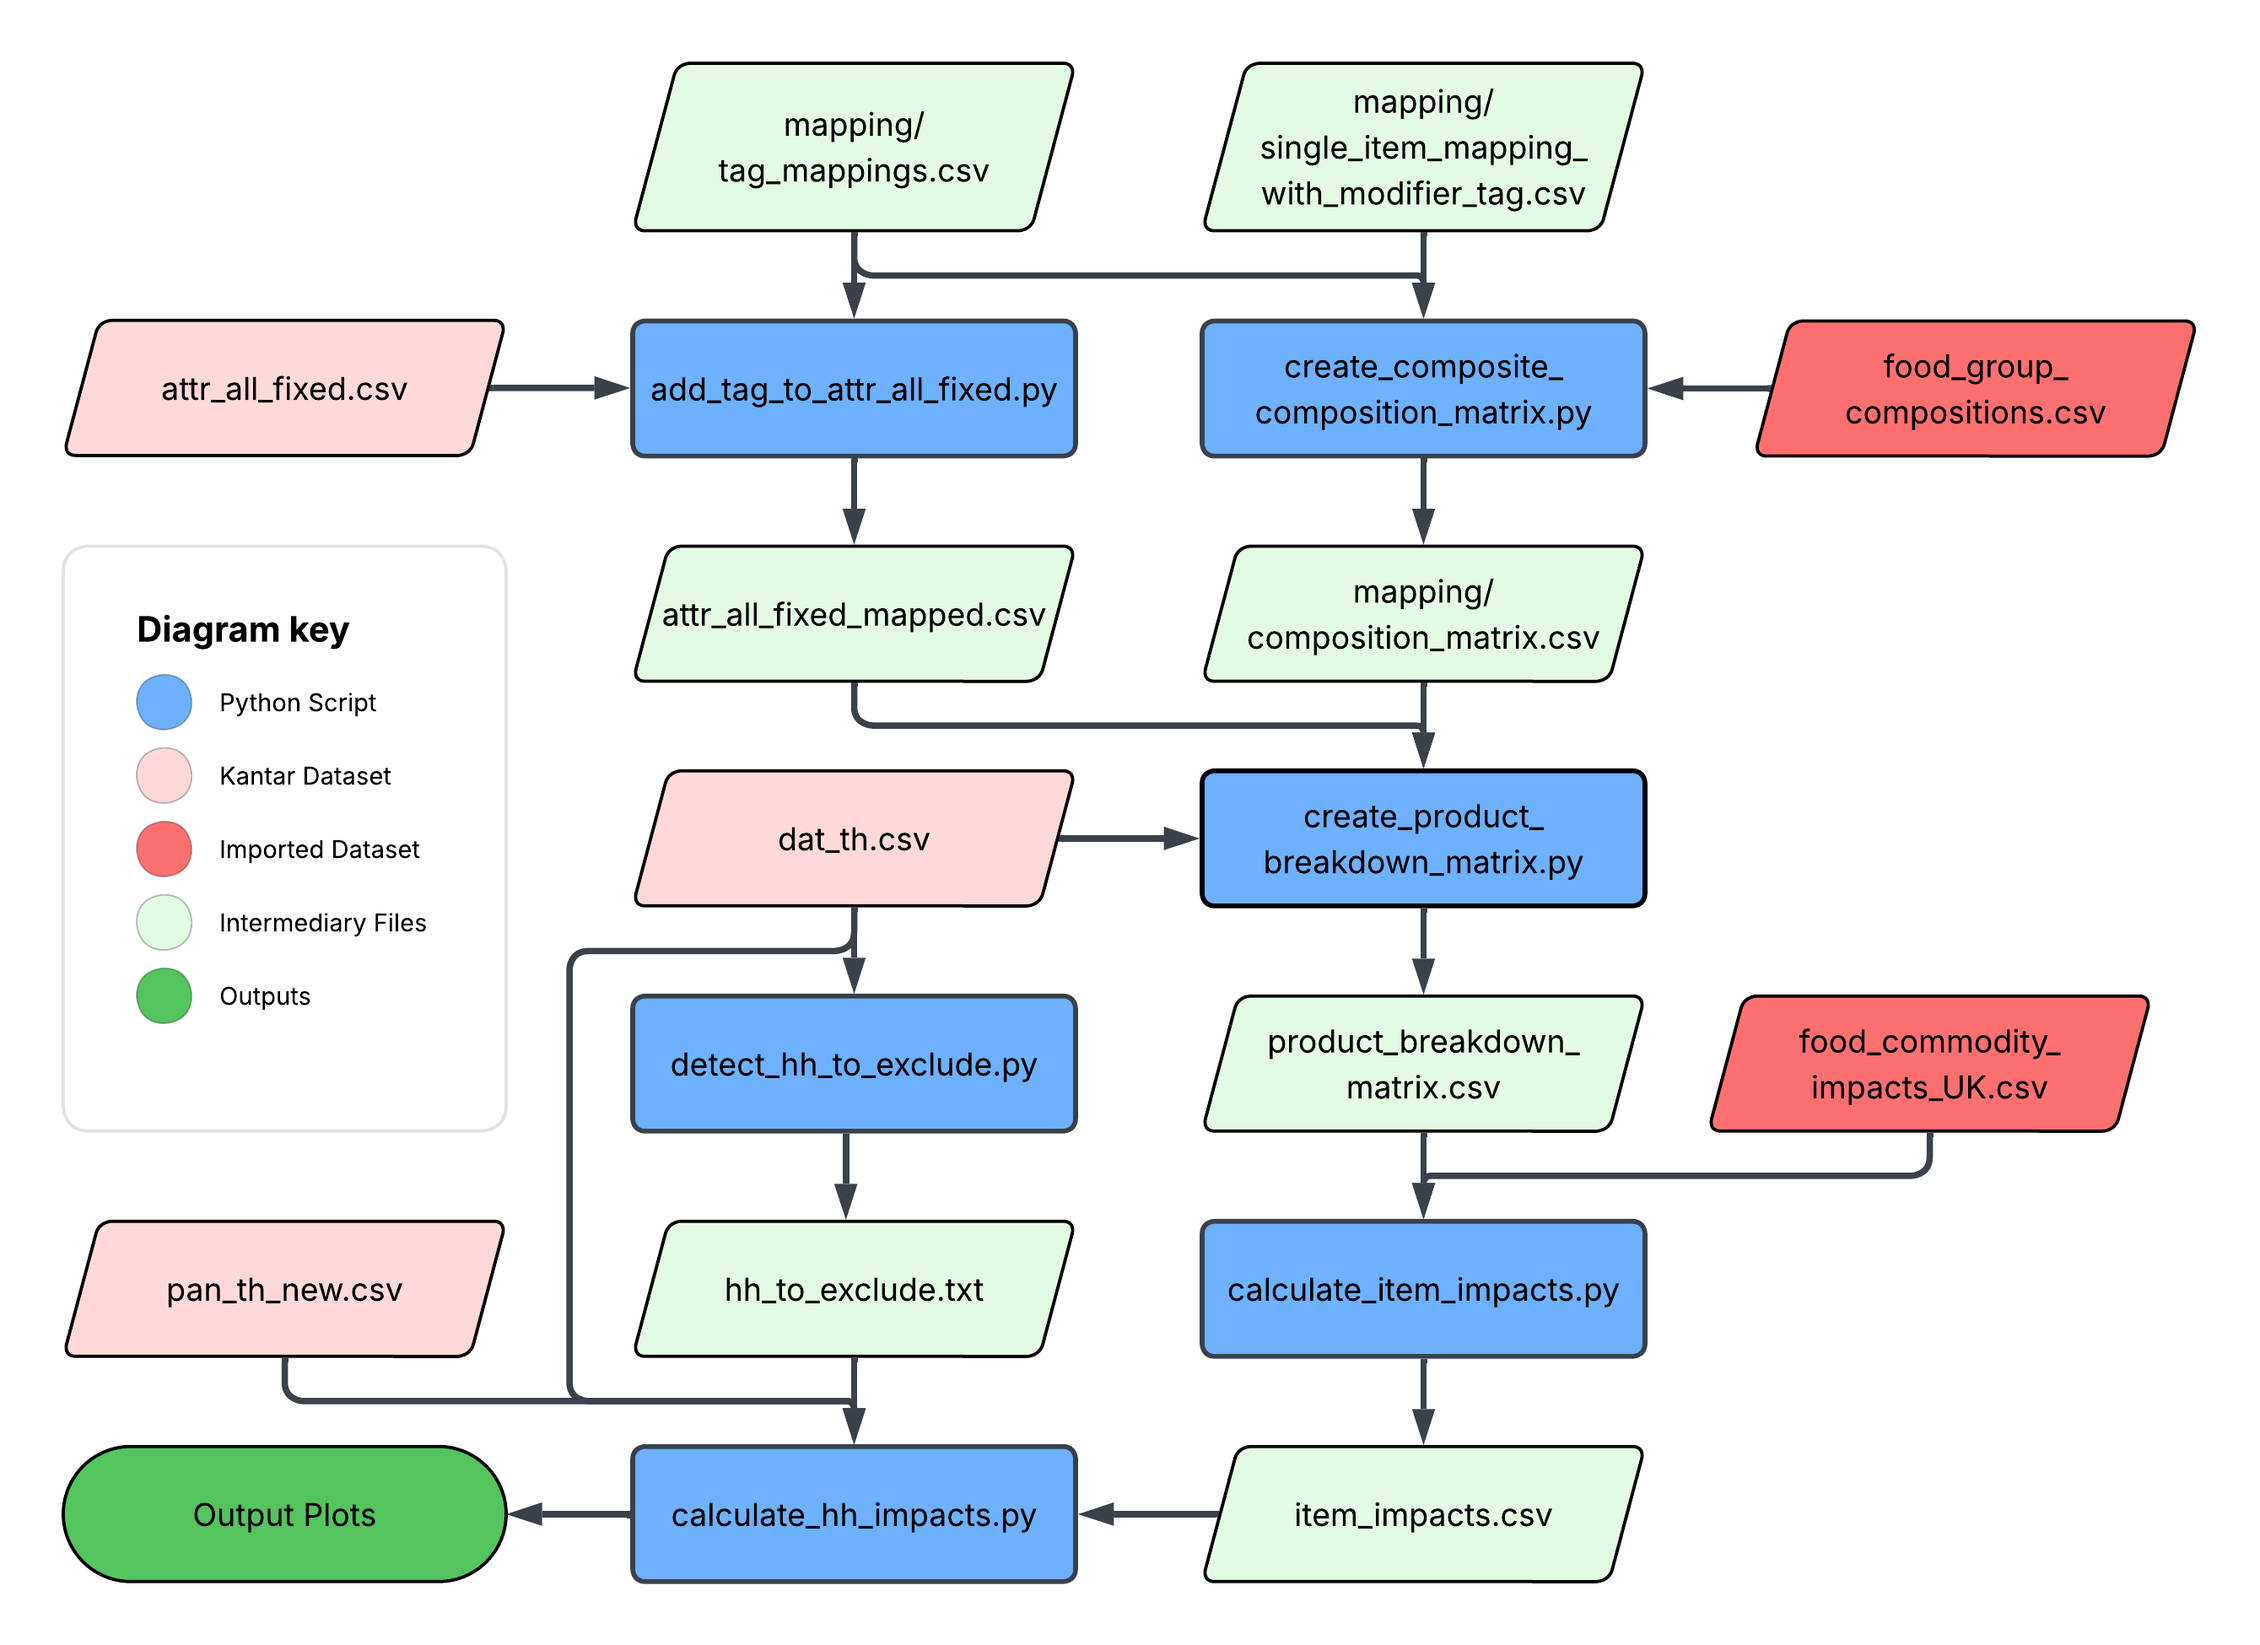
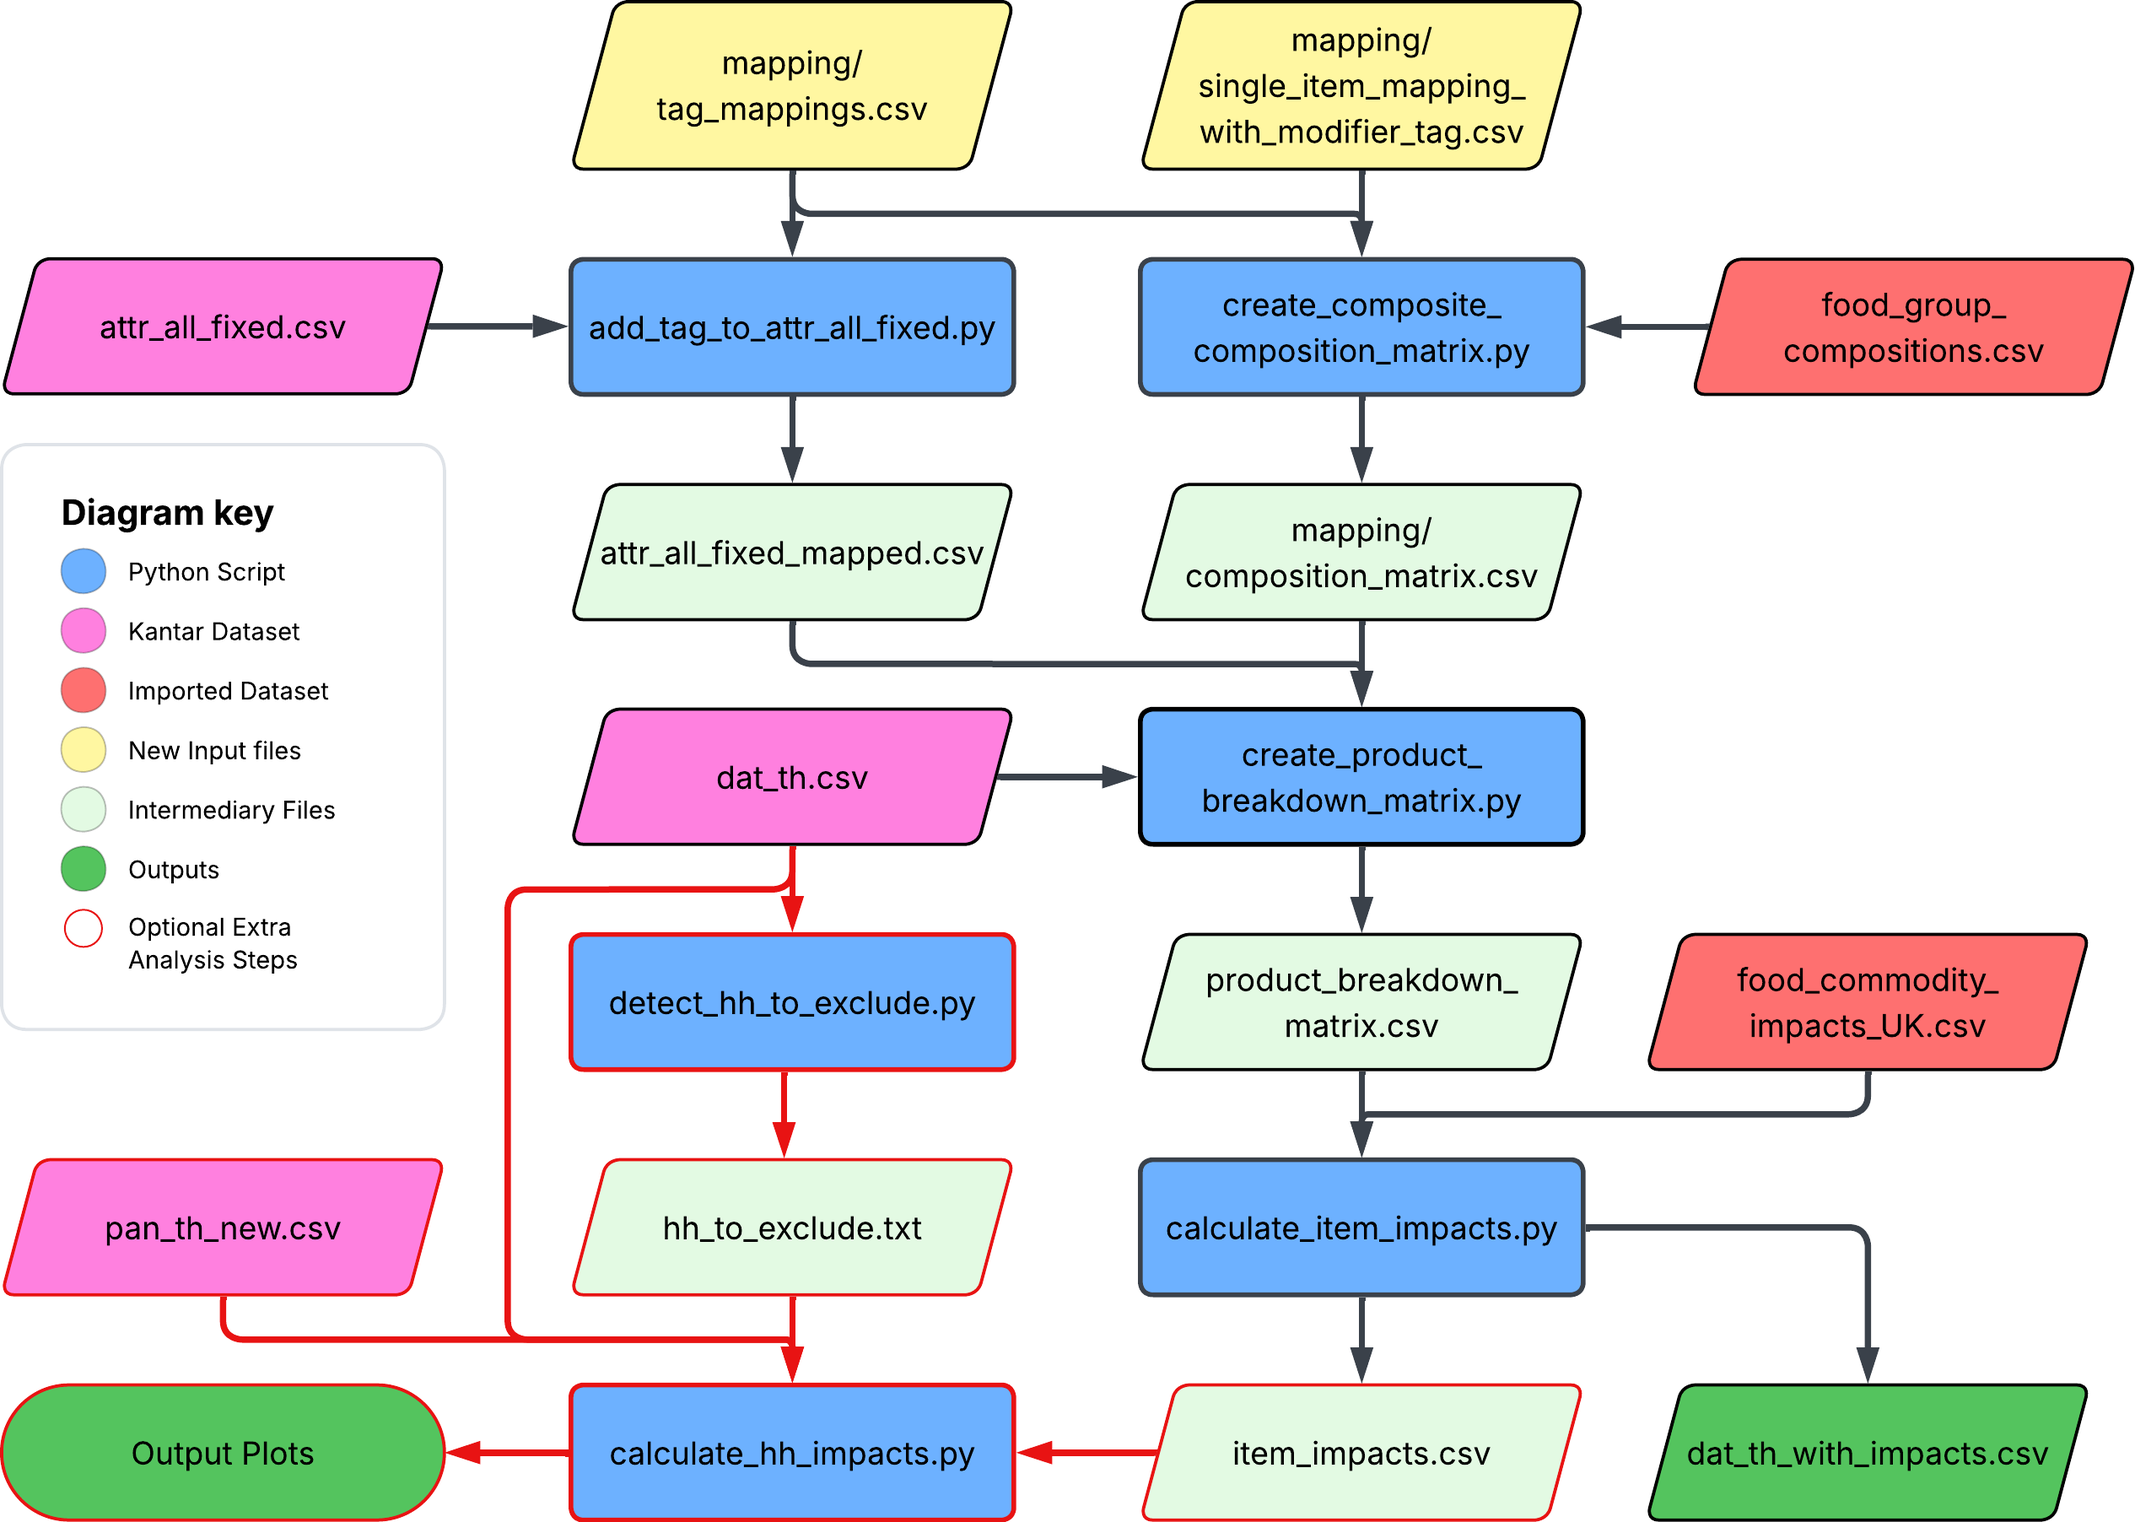
commenting

diff --git a/create_composite_composition_matrix.py b/create_composite_composition_matrix.py
@@ -1,47 +1,53 @@
 import pandas as pd
 import numpy as np
+from numpy import ndarray
+from pandas import DataFrame, Series
 
 
-single_item_mapping = pd.read_csv('data/mappings/single_item_mapping_with_modifier_tag.csv')
-single_item_dict = dict(zip(single_item_mapping['Food_Category_sub_sub'], single_item_mapping['Food Commodity']))
+# use single item mapping to relate Tom and Mikes slightly different food categories to the same single item tag
+single_item_mapping: DataFrame = pd.read_csv('data/mappings/single_item_mapping_with_modifier_tag.csv')
+single_item_dict: dict = dict(zip(single_item_mapping['Food_Category_sub_sub'], single_item_mapping['Food Commodity']))
 
 
-food_composition_df = pd.read_csv('data/food_group_compositions.csv')
+food_composition_df: DataFrame = pd.read_csv('data/food_group_compositions.csv')
 food_composition_df["Food_Category_sub"] = food_composition_df["Food_Category_sub"].fillna(food_composition_df["Food_Category"])
 food_composition_df["Food_Category_sub_sub"] = food_composition_df["Food_Category_sub_sub"].fillna(food_composition_df["Food_Category_sub"])
-food_composition_df = food_composition_df.drop(columns=["Food_Category", "Food_Category_sub"])
+food_composition_df: DataFrame = food_composition_df.drop(columns=["Food_Category", "Food_Category_sub"])
 
 food_composition_df["Tag"] = food_composition_df["Food_Category_sub_sub"].map(single_item_dict)
 
-unique_single_tags_from_composites = food_composition_df["Tag"].unique()
+
+# collect all the unique rst market from both composite and single item tags
+unique_single_tags_from_composites: ndarray|list = food_composition_df["Tag"].unique()
 unique_single_tags_from_composites = [str(tag) for tag in unique_single_tags_from_composites]
 
-rst_mapping_df = pd.read_csv('data/mappings/tag_mapping.csv')
-unique_tags_from_rst = rst_mapping_df["mapped_tag"].unique().tolist()
-unique_single_tags_from_rst = [tag[1:] for tag in unique_tags_from_rst if type(tag) == str and tag[0] == "*"]
+rst_mapping_df: DataFrame = pd.read_csv('data/mappings/tag_mapping.csv')
+unique_tags_from_rst: list = rst_mapping_df["mapped_tag"].unique().tolist()
+unique_single_tags_from_rst: list = [tag[1:] for tag in unique_tags_from_rst if type(tag) == str and tag[0] == "*"]
 
-unique_single_tags = sorted(list(set(unique_single_tags_from_composites).union(set(unique_single_tags_from_rst))))
-
-
-
-unique_items = food_composition_df["validation_field_title"].unique()
-single_item_array = pd.DataFrame(0, index=unique_items, columns=unique_single_tags)
-single_item_matrix = single_item_array.to_numpy(dtype=float)
-index_map = {item: idx for idx, item in enumerate(unique_items)}
-column_map = {tag: idx for idx, tag in enumerate(unique_single_tags)}
+unique_single_tags: list = sorted(list(set(unique_single_tags_from_composites).union(set(unique_single_tags_from_rst))))
 
 
+# matrix setup
+unique_items: ndarray = food_composition_df["validation_field_title"].unique()
+single_item_array: DataFrame = pd.DataFrame(0, index=unique_items, columns=unique_single_tags)
+single_item_matrix: ndarray = single_item_array.to_numpy(dtype=float)
+index_map: dict = {item: idx for idx, item in enumerate(unique_items)}
+column_map: dict = {tag: idx for idx, tag in enumerate(unique_single_tags)}
 
+
+# converts the messy input data into a clean composition matrix
+# composite items
 for composite_item in food_composition_df["validation_field_title"].unique():
-    composite_df = food_composition_df[food_composition_df["validation_field_title"] == composite_item]
+    composite_df: DataFrame = food_composition_df[food_composition_df["validation_field_title"] == composite_item]
     for constituent_tag in composite_df["Tag"].unique():
-        constituent_df = composite_df[composite_df["Tag"] == constituent_tag]
-        proportion = constituent_df["percent"].sum()
+        constituent_df: DataFrame = composite_df[composite_df["Tag"] == constituent_tag]
+        proportion: float = constituent_df["percent"].sum()
         single_item_matrix[index_map[composite_item], column_map[str(constituent_tag)]] = proportion
-
-single_item_array = pd.DataFrame(single_item_matrix, index=unique_items, columns=unique_single_tags)
+# single items
+single_item_array: DataFrame = pd.DataFrame(single_item_matrix, index=unique_items, columns=unique_single_tags)
 for item in unique_single_tags_from_rst:
-    row = np.zeros(len(unique_single_tags))
+    row: ndarray = np.zeros(len(unique_single_tags))
     row[column_map[item]] = 100.
     single_item_array.loc[item] = row
         

diff --git a/calculate_item_impacts.py b/calculate_item_impacts.py
@@ -3,13 +3,14 @@ import pandas as pd
 from pandas import DataFrame
 from numpy import ndarray
 
+# load the data from the product breakdown matrix as a matrix
 matrix_df: DataFrame = pd.read_csv("data/product_breakdown_matrix.csv", index_col=0)
 matrix_df.drop(columns=["nan"], inplace=True)
-matrix_indices: list = matrix_df.index.tolist()
+matrix_indices: list = matrix_df.index.tolist() # PRODUCT CODES
 matrix_columns: list = matrix_df.columns.tolist()
 matrix: np.ndarray = matrix_df.to_numpy(dtype=float)
 
-
+# load the impact factors as vector
 impacts: DataFrame = pd.read_csv("data/food_commodity_impacts_UK.csv", index_col=0)
 impacts = impacts[impacts.index.isin(matrix_columns)]
 impacts.sort_index(inplace=True)
@@ -18,17 +19,31 @@ co2: ndarray   = impacts['kgCO2_per_kg'].to_numpy()
 ext: ndarray   = impacts['exp_extinctions_per_kg'].to_numpy()
 water: ndarray = impacts['scarcity_weighted_water_use_litres_per_kg'].to_numpy()
 
+
+# use vector multiplication to calculate the impacts for each item component
 co2_matrix: ndarray   = np.multiply(matrix, co2)
 ext_matrix: ndarray   = np.multiply(matrix, ext)
 water_matrix: ndarray = np.multiply(matrix, water)
 
+# sum the impacts for each item
 co2_sums: ndarray   = np.nansum(co2_matrix, axis=1)
 ext_sums: ndarray   = np.nansum(ext_matrix, axis=1)
 water_sums: ndarray = np.nansum(water_matrix, axis=1)
 
+# combine the results into a dataframe and save as csv
 vals: ndarray = np.c_[co2_sums, ext_sums, water_sums]
 vals = np.where(vals==0, np.nan, vals)  # replace 0 with NaN
 
 out_df:DataFrame = pd.DataFrame(vals, index=matrix_indices, columns=["kgCO2_per_item", "exp_extinctions_per_item", "scarcity_weighted_water_use_litres_per_item"])
 
 out_df.to_csv("data/item_impacts.csv")
+
+
+recreate_dat_th: DataFrame = pd.read_csv("data/dat_th.csv")
+recreate_dat_th['kgCO2_per_pack'] = recreate_dat_th['product'].map(out_df['kgCO2_per_item'])
+recreate_dat_th['exp_extinctions_per_pack'] = recreate_dat_th['product'].map(out_df['exp_extinctions_per_item'])
+recreate_dat_th['scarcity_weighted_water_use_litres_per_pack'] = recreate_dat_th['product'].map(out_df['scarcity_weighted_water_use_litres_per_item'])
+recreate_dat_th['kgCO2'] = recreate_dat_th['kgCO2_per_pack'] * recreate_dat_th['packs']
+recreate_dat_th['exp_extinctions'] = recreate_dat_th['exp_extinctions_per_pack'] * recreate_dat_th['packs']
+recreate_dat_th['scarcity_weighted_water_use_litres'] = recreate_dat_th['scarcity_weighted_water_use_litres_per_pack'] * recreate_dat_th['packs']
+recreate_dat_th.to_csv("data/dat_th_with_impacts.csv", index=False)

diff --git a/add_tag_to_attr_all_fixed.py b/add_tag_to_attr_all_fixed.py
@@ -1,13 +1,15 @@
 import pandas as pd
 import numpy as np
 
-# single_comp_array = pd.read_csv('data/single_item_composition_matrix.csv', index_col=0)
-# single_comp_array.loc['CEREAL BARS']
 
+# Some rst codes correspond to a single item, while some are composite items
+# load the mapping of RST tags
 
 rst_to_comp_or_single_mappings = pd.read_csv('data/mappings/tag_mapping.csv')
 rst_to_comp_or_single_mappings["mapped_tag"] = rst_to_comp_or_single_mappings["mapped_tag"].str.lstrip('*')
 
+# as some rst_4_extended are NaN, we need to create a new column rst_4_lowest
+# some rst_4_lowest are not unique so we create a "unique_category" column to map the tags
 
 correct_df = pd.read_csv('data/attr_all_fixed.csv', encoding='cp1252', low_memory=False)
 correct_df["rst_4_lowest"] = correct_df["rst_4_extended"].fillna(correct_df["rst_4_sub_market"])
@@ -20,6 +22,9 @@ rst_to_comp_or_single_mappings["unique_category"] = pd.concat([rst_to_comp_or_si
                                                                rst_to_comp_or_single_mappings["rst_4_sub_market"],
                                                                rst_to_comp_or_single_mappings["rst_4_lowest"]],
                                                                axis=1).agg(' | '.join, axis=1)
+
+
+# this creates a attr_all_fixed_mapped.csv file with the mapped_tag column added
 
 correct_df["mapped_tag"] = correct_df["unique_category"].map(
     rst_to_comp_or_single_mappings.set_index("unique_category")["mapped_tag"])

diff --git a/create_product_breakdown_matrix.py b/create_product_breakdown_matrix.py
@@ -2,13 +2,15 @@ import pandas as pd
 import numpy as np
 from pandas import DataFrame, Series
 
+# create the product matrix for all items in dat_th.csv
 
+
+# calculate weights
 def weight_calc(sizes:Series, units:Series, volumes:Series, packs:Series) -> list:
     weights:list = [size/1000 if unit in ['g', 'Drained weightg', 'ml'] # assume ml = g
                 else volume/pack # fall back to per pack volume if mass data is unavailable
                 for size, unit, volume, pack in zip(sizes, units, volumes, packs) ]
     return weights
-
 
 def compute_unique_item_weights(dat_df:DataFrame) -> pd.DataFrame:
     dat_df.drop_duplicates(['product'], inplace=True)
@@ -16,8 +18,9 @@ def compute_unique_item_weights(dat_df:DataFrame) -> pd.DataFrame:
     return dat_df
 
 
+# create matrix of item weights
 def create_item_weights_matrix(unique_item_properties:DataFrame, comp_matrix:DataFrame) -> DataFrame:
-    comp_matrix = comp_matrix.drop("OLIVES") # there are olives as composite which we ignore in favour of whole olives
+    comp_matrix = comp_matrix.drop("OLIVES") # there are olives as composite which we ignore in favour of olives as single item
     comp_matrix.index = comp_matrix.index.str.lower()
 
 
